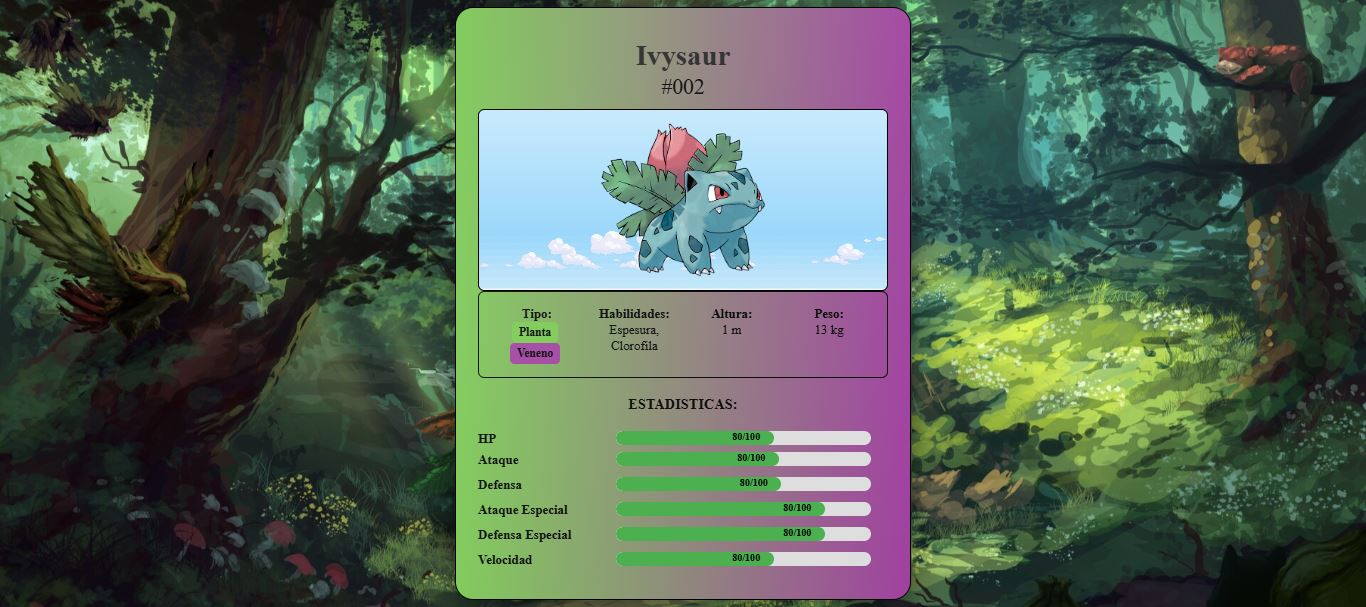
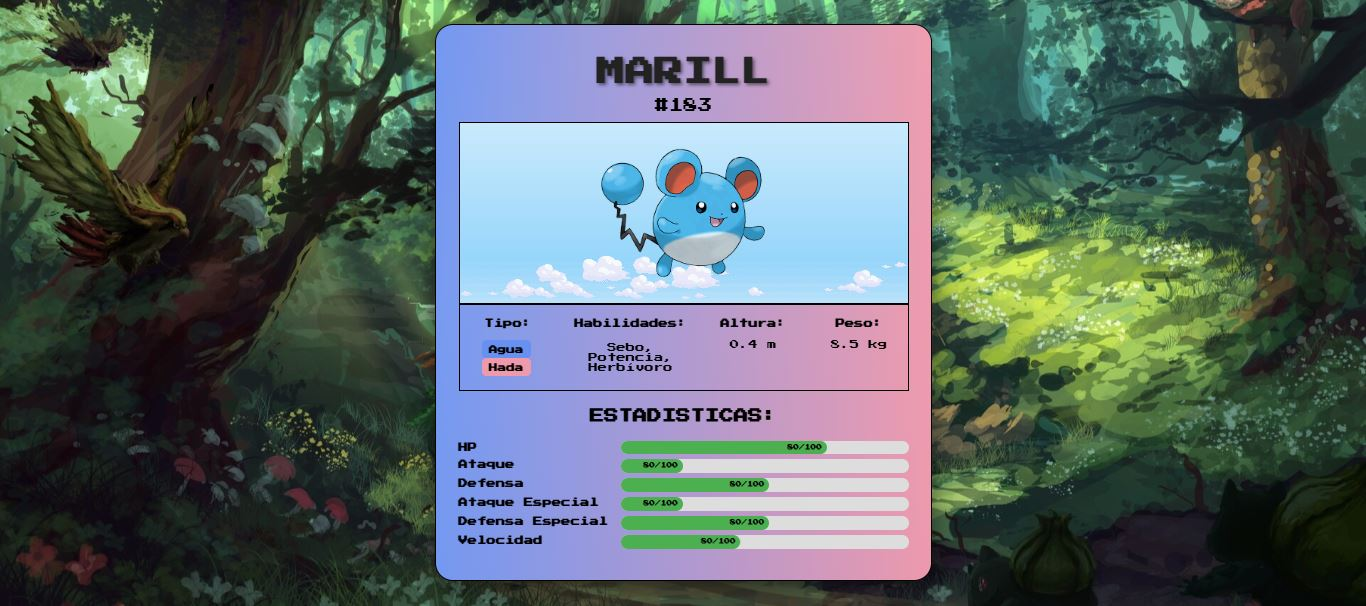
Actualizando

diff --git a/stylePokecard.css b/stylePokecard.css
@@ -3,16 +3,17 @@ body {
     display: flex;
     justify-content: center;
     align-items: center;
-    height: 100vh;
+    min-height: 100vh;
+    font-family: 'Press Start 2P', cursive;
 }
 
 
 body::before {
     content: "";
     position: fixed;
-    background-image: url('https://cdn.glitch.global/4c46cef8-6e9c-4ebc-80b4-5ceb24089ee9/fondo-bodyPokecard.jpg?v=1748369773293'); 
+    background-image: url('https://cdn.glitch.global/4c46cef8-6e9c-4ebc-80b4-5ceb24089ee9/fondo-bodyPokecard.jpg?v=1748369773293');
     background-size: cover;
-    background-position: right 10%;
+    background-position: center;
     top: 0;
     left: 0;
     width: 100%;
@@ -21,23 +22,24 @@ body::before {
 }
 
 .tarjeta {
-    background: rgba(255, 255, 255, 0.1); 
+    background: rgba(255, 255, 255, 0.1);
     backdrop-filter: blur(5px);
     -webkit-backdrop-filter: blur(5px);
     border-radius: 20px;
     box-shadow: 0 4px 30px rgba(0, 0, 0, 0.5);
     transition: all 0.4s ease-in-out;
-    width: 30%;
-    height: 90%;
+    width: 500px;
+    height: auto;
     padding: 25px;
     position: relative;
     text-align: center;
     overflow: hidden;
     border: 1px solid black;
+    max-width: 90%;
 }
 
 .tarjeta:hover {
-   background: rgba(255, 255, 255, 0.2);
+    background: rgba(255, 255, 255, 0.2);
     backdrop-filter: blur(10px);
     -webkit-backdrop-filter: blur(10px);
     box-shadow: 0 0 30px rgba(255, 255, 255, 0.2);
@@ -53,6 +55,7 @@ body::before {
     height: 100%;
     background: linear-gradient(120deg, transparent, rgba(255, 255, 255, 0.1), transparent);
     transition: left 0.5s ease-in-out;
+    z-index: -1;
 }
 
 .tarjeta:hover::before {
@@ -84,10 +87,15 @@ body::before {
     text-shadow: 0 0 5px rgba(133, 43, 43, 0.5);
 }
 
+#pokemonNombre {
+    font-family: 'Press Start 2P', cursive;
+    text-shadow: 2px 2px 4px rgba(0, 0, 0, 0.5);
+}
+
 #pokemonNumero {
-    font-size: 1.5rem;
+    font-size: 1rem;
     color: black;
-    margin: 3px 0 10px 0;
+    margin: 15px 0 10px 0;
 }
 
 .pokemonImagen {
@@ -97,8 +105,7 @@ body::before {
     justify-content: center;
     position: relative;
     border: 1px solid black;
-    border-radius: 7px;
-    background-image:  linear-gradient(rgba(255, 255, 255, 0.6), rgba(255, 255, 255, 0.1)), url("https://cdn.glitch.global/4c46cef8-6e9c-4ebc-80b4-5ceb24089ee9/fondo_Pokem%C3%B3n.avif?v=1748369747200");
+    background-image: linear-gradient(rgba(255, 255, 255, 0.6), rgba(255, 255, 255, 0.1)), url("https://cdn.glitch.global/4c46cef8-6e9c-4ebc-80b4-5ceb24089ee9/fondo_Pokem%C3%B3n.avif?v=1748369747200");
     background-position: top;
     background-size: cover;
 }
@@ -117,14 +124,19 @@ body::before {
 .informacion {
     display: flex;
     border: 1px solid black;
-    border-radius: 7px;
     padding: 10px;
+    gap: 30px;
 }
 
 .bloqueInformacion {
-    width: 48%;
+    width: 50%;
     margin: 5px 0;
-    font-size: 0.9rem;
+    font-size: 0.65rem;
+}
+
+.bloqueInformacion strong {
+    display: block;
+    margin-bottom: 4px
 }
 
 .tipoContenido span {
@@ -134,7 +146,11 @@ body::before {
     display: inline-block;
     color: #000;
     font-weight: bold;
-    font-size: 0.8rem;
+    font-size: 0.6rem;
+}
+
+#habilidades {
+    line-height: 1.1;
 }
 
 .estadisticas {
@@ -149,38 +165,42 @@ body::before {
     display: flex;
     justify-content: space-between;
     align-items: center;
-    font-size: 0.8rem;
+    font-size: 0.5rem;
     margin: 5px 0;
 }
 
 .barraEstadistica {
     margin-bottom: 1px;
     display: flex;
+    align-items: center;
     width: 200%;
     justify-content: space-between;
-    gap: 10px;
     padding-bottom: 5px;
+    gap: 10px;
 }
 
 .valorStat {
-    min-width: 60px;
+    min-width: 30px;
     text-align: right;
-    font-size: 0.7rem;
+    font-size: 0.4rem;
     color: black;
-    padding-right: 10px;
+    padding-right: 0px;
 }
 
 .barraEstadistica label {
     font-weight: bold;
     margin-bottom: 4px;
+    flex-grow: 1;
+    text-align: left;
 }
 
 .barraFondo {
     background: #ddd;
     border-radius: 10px;
     height: 15px;
-    width: 65%;
     overflow: hidden;
+    position: relative;
+    width: 64%;
 }
 
 .barraRelleno {
@@ -192,6 +212,6 @@ body::before {
     text-align: right;
     padding-right: 5px;
     color: white;
-    font-size: 0.7rem;
+    font-size: 0.6rem;
     font-weight: bold;
 }

diff --git a/indexPokecard.html b/indexPokecard.html
@@ -7,6 +7,9 @@
     <link rel="stylesheet" href="stylePokecard.css">
     <title>Tarjeta de Pokémon</title>
     <script src="https://cdn.jsdelivr.net/npm/axios/dist/axios.min.js"></script>
+    <link rel="preconnect" href="https://fonts.googleapis.com">
+    <link rel="preconnect" href="https://fonts.gstatic.com" crossorigin>
+    <link href="https://fonts.googleapis.com/css2?family=Press+Start+2P&display=swap" rel="stylesheet">
 </head>
 
 <body>
@@ -101,7 +104,7 @@
                 const data = res.data;
                 actualId = data.id;
 
-                document.getElementById("pokemonNombre").textContent = capitalizar(data.name);
+                document.getElementById("pokemonNombre").textContent = data.name.toUpperCase();
                 document.getElementById("pokemonNumero").textContent = `#${data.id.toString().padStart(3, '0')}`;
                 document.getElementById("imagenPokemon").src = data.sprites.other["official-artwork"].front_default;
 
